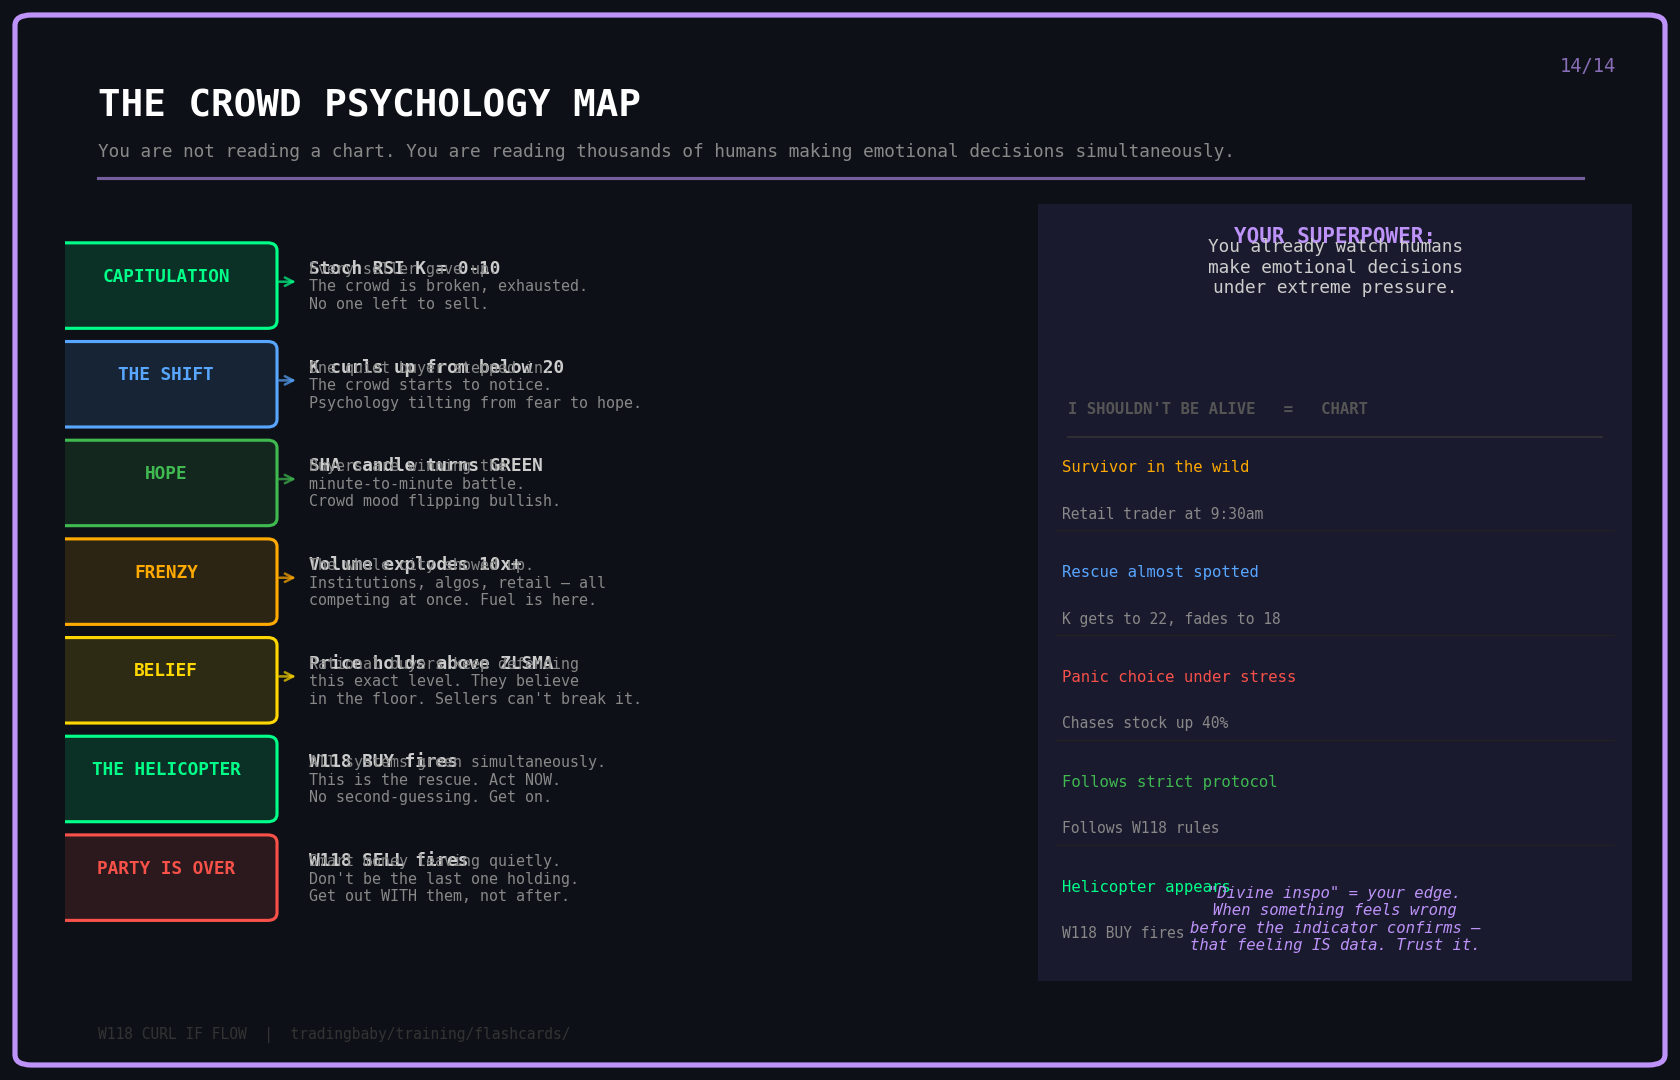
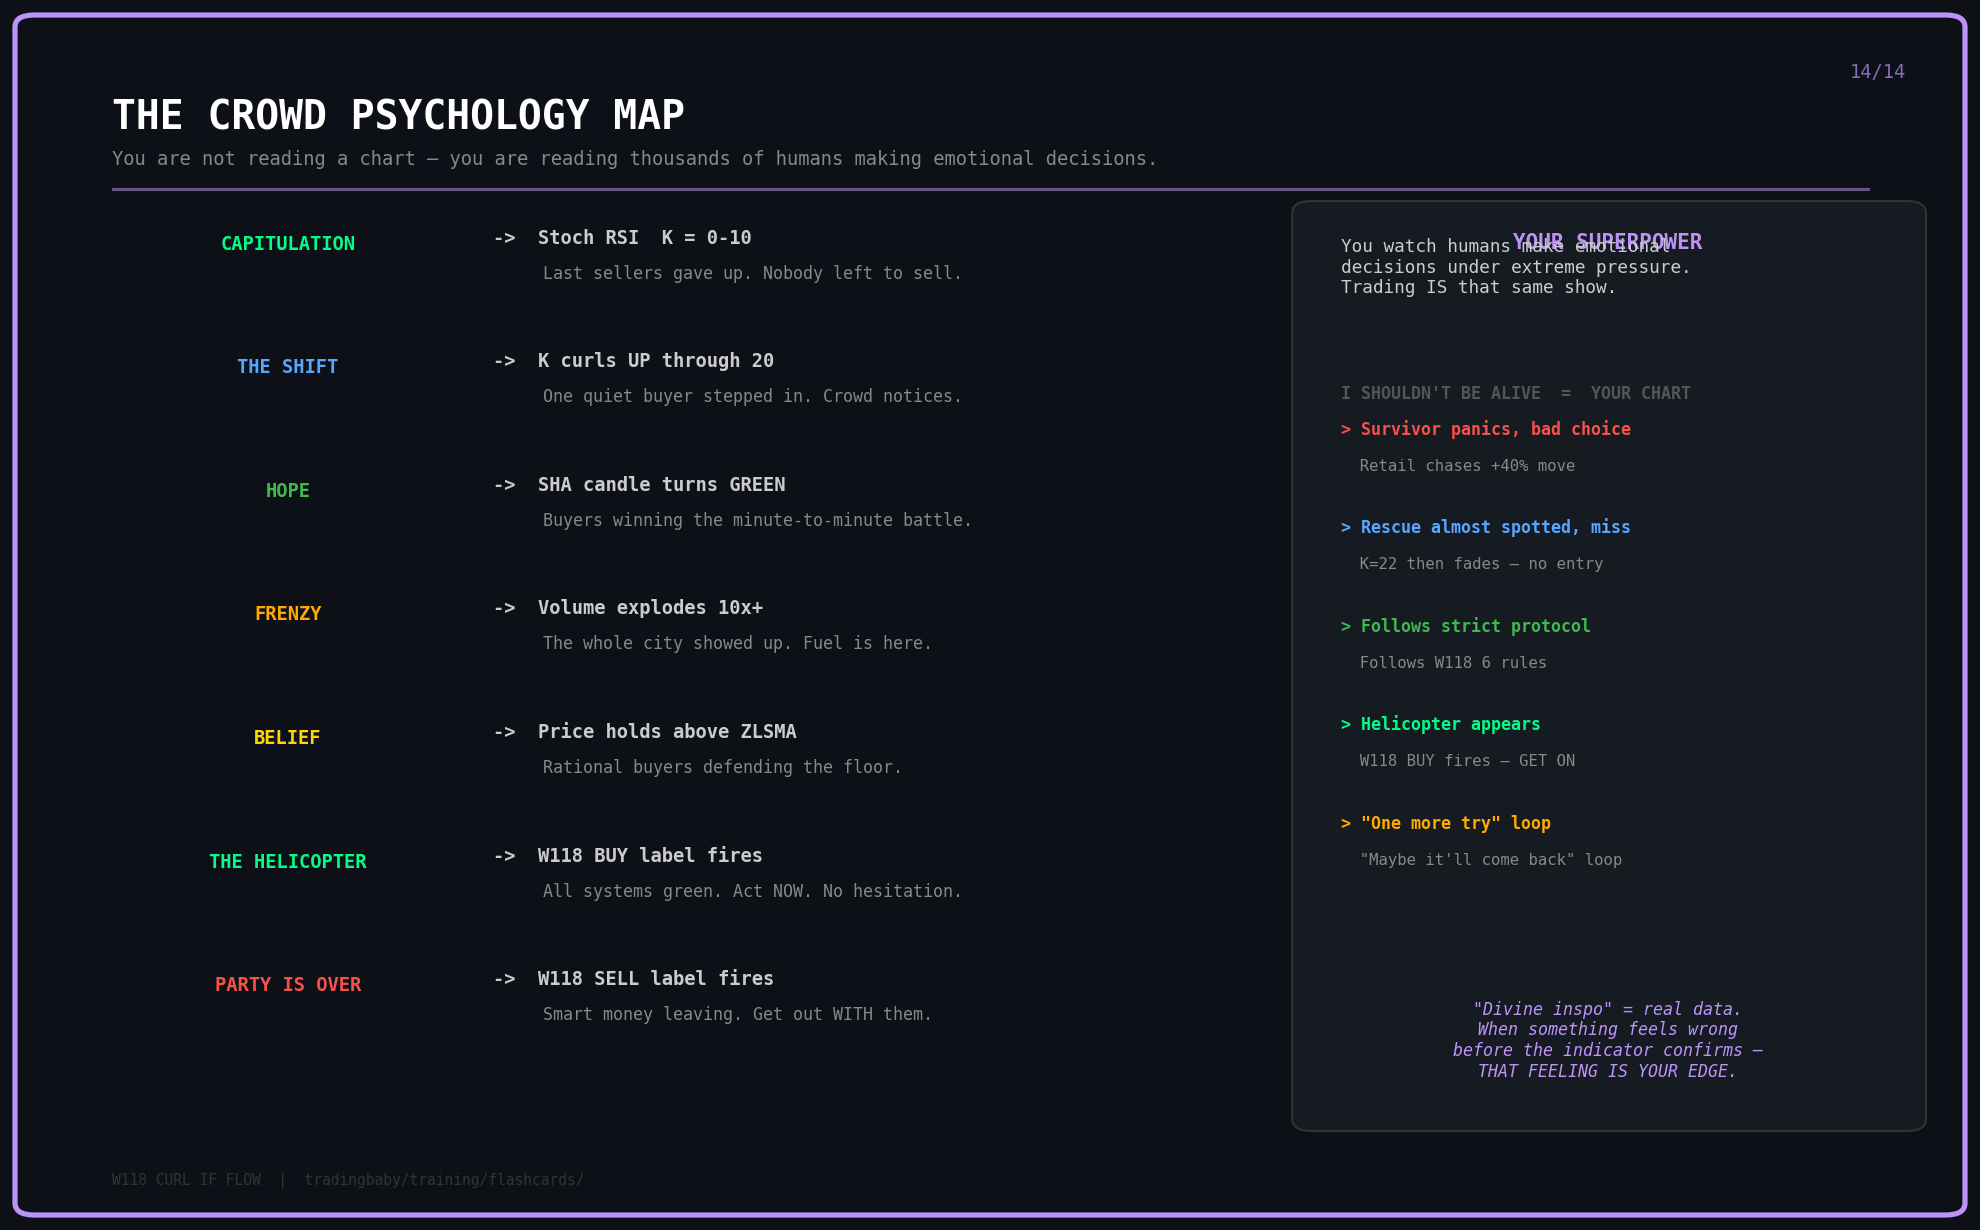
Fix Card 14 layout — clean spacing, no overlap

diff --git a/training/flashcards/make_card14.py b/training/flashcards/make_card14.py
@@ -1,141 +1,118 @@
 """
-Card 14 — The Crowd Psychology Map
-The chart translated into human emotion.
+Card 14 — The Crowd Psychology Map (v2 - clean layout)
 """
-
 import matplotlib.pyplot as plt
 import matplotlib.patches as mpatches
 from matplotlib.patches import FancyBboxPatch
-import numpy as np
-import os
+import numpy as np, os
 
 OUT = os.path.join(os.path.dirname(__file__), 'card_14_crowd_psychology.png')
 
-BG     = '#0d1117'
-CARD   = '#161b22'
-GREEN  = '#3fb950'
-RED    = '#f85149'
-YELLOW = '#FFD700'
-BLUE   = '#58a6ff'
-ORANGE = '#ffaa00'
-PURPLE = '#bd93f9'
-GRAY   = '#888888'
-LGRAY  = '#cccccc'
-WHITE  = '#ffffff'
-TEAL   = '#00ff88'
+BG=('#0d1117'); CARD=('#161b22'); GREEN=('#3fb950'); RED=('#f85149')
+YELLOW=('#FFD700'); BLUE=('#58a6ff'); ORANGE=('#ffaa00')
+PURPLE=('#bd93f9'); GRAY=('#888888'); LGRAY=('#cccccc')
+WHITE=('#ffffff'); TEAL=('#00ff88')
 
-fig = plt.figure(figsize=(11, 7), facecolor=BG)
+fig = plt.figure(figsize=(13, 8), facecolor=BG)
 
-# border
 fig.add_artist(mpatches.FancyBboxPatch(
-    (0.01, 0.01), 0.98, 0.98,
-    boxstyle='round,pad=0.01', linewidth=2.5,
-    edgecolor=PURPLE, facecolor='none',
+    (0.01,0.01),0.98,0.98, boxstyle='round,pad=0.01',
+    linewidth=2.5, edgecolor=PURPLE, facecolor='none',
     transform=fig.transFigure))
 
-# card number
-fig.text(0.97, 0.96, '14/14', ha='right', va='top', fontsize=9,
-         color=PURPLE, fontfamily='monospace', alpha=0.7)
+fig.text(0.97,0.96,'14/14',ha='right',va='top',fontsize=9,
+         color=PURPLE,fontfamily='monospace',alpha=0.7)
+fig.text(0.05,0.93,'THE CROWD PSYCHOLOGY MAP',ha='left',va='top',
+         fontsize=19,fontweight='bold',color=WHITE,fontfamily='monospace')
+fig.text(0.05,0.875,
+         'You are not reading a chart — you are reading thousands of humans making emotional decisions.',
+         ha='left',fontsize=9,color=GRAY,fontfamily='monospace')
 
-# title
-fig.text(0.05, 0.93, 'THE CROWD PSYCHOLOGY MAP', ha='left', va='top',
-         fontsize=18, fontweight='bold', color=WHITE, fontfamily='monospace')
-fig.text(0.05, 0.865, 'You are not reading a chart. You are reading thousands of humans making emotional decisions simultaneously.',
-         ha='left', fontsize=8.5, color=GRAY, fontfamily='monospace')
+fig.add_artist(plt.Line2D([0.05,0.95],[0.855,0.855],
+    transform=fig.transFigure, color=PURPLE,linewidth=1.5,alpha=0.5))
 
-line = plt.Line2D([0.05, 0.95], [0.845, 0.845],
-                  transform=fig.transFigure,
-                  color=PURPLE, linewidth=1.5, alpha=0.6)
-fig.add_artist(line)
-
-# ── left column: the emotion map ──────────────────────────────────────────────
-ax = fig.add_axes([0.03, 0.08, 0.56, 0.74], frameon=False)
-ax.axis('off')
-
+# ── LEFT: emotion ladder ───────────────────────────────────────────────────────
 states = [
-    # (indicator reading,         emotion word,    crowd story,                              color,  arrow)
-    ('Stoch RSI K = 0-10',       'CAPITULATION',  'Every seller gave up.\nThe crowd is broken, exhausted.\nNo one left to sell.',                   TEAL,   True),
-    ('K curls up from below 20', 'THE SHIFT',     'One quiet buyer stepped in.\nThe crowd starts to notice.\nPsychology tilting from fear to hope.', BLUE,   True),
-    ('SHA candle turns GREEN',   'HOPE',          'Buyers are winning the\nminute-to-minute battle.\nCrowd mood flipping bullish.',                  GREEN,  True),
-    ('Volume explodes 10x+',     'FRENZY',        'The whole city showed up.\nInstitutions, algos, retail — all\ncompeting at once. Fuel is here.',   ORANGE, True),
-    ('Price holds above ZLSMA',  'BELIEF',        'Rational buyers keep defending\nthis exact level. They believe\nin the floor. Sellers can\'t break it.',YELLOW, True),
-    ('W118 BUY fires',           'THE HELICOPTER','All systems green simultaneously.\nThis is the rescue. Act NOW.\nNo second-guessing. Get on.',      TEAL,   False),
-    ('W118 SELL fires',          'PARTY IS OVER', 'Smart money leaving quietly.\nDon\'t be the last one holding.\nGet out WITH them, not after.',      RED,    False),
+    ('Stoch RSI  K = 0-10',       'CAPITULATION',    'Last sellers gave up. Nobody left to sell.',     TEAL),
+    ('K curls UP through 20',     'THE SHIFT',       'One quiet buyer stepped in. Crowd notices.',     BLUE),
+    ('SHA candle turns GREEN',    'HOPE',            'Buyers winning the minute-to-minute battle.',    GREEN),
+    ('Volume explodes 10x+',      'FRENZY',          'The whole city showed up. Fuel is here.',        ORANGE),
+    ('Price holds above ZLSMA',   'BELIEF',          'Rational buyers defending the floor.',           YELLOW),
+    ('W118 BUY label fires',      'THE HELICOPTER',  'All systems green. Act NOW. No hesitation.',     TEAL),
+    ('W118 SELL label fires',     'PARTY IS OVER',   'Smart money leaving. Get out WITH them.',        RED),
 ]
 
-row_h = 0.127
-for i, (indicator, emotion, story, color, has_arrow) in enumerate(states):
-    y = 0.915 - i * row_h
+top = 0.80; row = 0.103
+for i,(indicator, emotion, story, color) in enumerate(states):
+    y = top - i*row
 
-    # emotion badge
-    ax.add_patch(FancyBboxPatch((0.0, y-0.065), 0.22, 0.09,
-        boxstyle='round,pad=0.01', facecolor=color+'22',
-        edgecolor=color, linewidth=1.5, transform=ax.transAxes))
-    ax.text(0.11, y-0.015, emotion, ha='center', fontsize=8.5,
-            color=color, fontweight='bold', fontfamily='monospace',
-            transform=ax.transAxes)
+    # colored pill
+    ax_pill = fig.add_axes([0.05, y-0.025, 0.18, 0.068], frameon=False)
+    ax_pill.set_facecolor(color+'22')
+    for sp in ax_pill.spines.values():
+        sp.set_color(color); sp.set_linewidth(1.5)
+    ax_pill.axis('off')
+    ax_pill.text(0.5,0.5, emotion, ha='center',va='center',
+                 fontsize=9, color=color, fontweight='bold',
+                 fontfamily='monospace', transform=ax_pill.transAxes)
 
-    # arrow between badge and indicator
-    if has_arrow:
-        ax.annotate('', xy=(0.255, y-0.015), xytext=(0.228, y-0.015),
-                    arrowprops=dict(arrowstyle='->', color=color,
-                                   lw=1.2, alpha=0.7),
-                    xycoords='axes fraction', textcoords='axes fraction')
+    # arrow + text to the right
+    fig.text(0.245, y+0.022, '->  ' + indicator,
+             fontsize=9, color=LGRAY, fontfamily='monospace',
+             fontweight='bold', va='top')
+    fig.text(0.245, y-0.008, '     ' + story,
+             fontsize=8, color=GRAY, fontfamily='monospace', va='top')
 
-    # indicator text
-    ax.text(0.265, y-0.005, indicator, fontsize=8.5, color=LGRAY,
-            fontfamily='monospace', fontweight='bold', transform=ax.transAxes)
-    ax.text(0.265, y-0.050, story, fontsize=7.2, color='#888888',
-            fontfamily='monospace', transform=ax.transAxes)
+# ── RIGHT: survival show parallel ─────────────────────────────────────────────
+rx = 0.665
+fig.add_artist(mpatches.FancyBboxPatch(
+    (rx,0.08),0.305,0.755, boxstyle='round,pad=0.01',
+    linewidth=1, edgecolor='#333333', facecolor='#161b22',
+    transform=fig.transFigure))
 
-# ── right column: the survival show parallel ──────────────────────────────────
-ax2 = fig.add_axes([0.62, 0.08, 0.36, 0.74], frameon=False)
-ax2.axis('off')
+fig.text(rx+0.152, 0.805, 'YOUR SUPERPOWER', ha='center',
+         fontsize=10, color=PURPLE, fontweight='bold',
+         fontfamily='monospace')
 
-ax2.add_patch(FancyBboxPatch((0.0, 0.0), 1.0, 1.0,
-    boxstyle='round,pad=0.01', facecolor='#1a1a2e',
-    edgecolor='#333333', linewidth=1, transform=ax2.transAxes))
+fig.text(rx+0.015, 0.768,
+         'You watch humans make emotional\n'
+         'decisions under extreme pressure.\n'
+         'Trading IS that same show.',
+         fontsize=8.5, color=LGRAY, fontfamily='monospace')
 
-ax2.text(0.5, 0.95, 'YOUR SUPERPOWER:', ha='center', fontsize=10,
-         color=PURPLE, fontweight='bold', fontfamily='monospace',
-         transform=ax2.transAxes)
-ax2.text(0.5, 0.885, 'You already watch humans\nmake emotional decisions\nunder extreme pressure.',
-         ha='center', fontsize=8.5, color=LGRAY, fontfamily='monospace',
-         transform=ax2.transAxes)
+fig.text(rx+0.015, 0.680,
+         'I SHOULDN\'T BE ALIVE  =  YOUR CHART',
+         fontsize=8, color='#555555', fontweight='bold',
+         fontfamily='monospace')
 
 parallels = [
-    ('Survivor in the wild',  'Retail trader at 9:30am',   ORANGE),
-    ('Rescue almost spotted', 'K gets to 22, fades to 18', BLUE),
-    ('Panic choice under stress','Chases stock up 40%',    RED),
-    ('Follows strict protocol', 'Follows W118 rules',      GREEN),
-    ('Helicopter appears',    'W118 BUY fires',            TEAL),
+    ('Survivor panics, bad choice',  'Retail chases +40% move',      RED),
+    ('Rescue almost spotted, miss',  'K=22 then fades — no entry',   BLUE),
+    ('Follows strict protocol',      'Follows W118 6 rules',         GREEN),
+    ('Helicopter appears',           'W118 BUY fires — GET ON',      TEAL),
+    ('"One more try" loop',          '"Maybe it\'ll come back" loop', ORANGE),
 ]
 
-ax2.text(0.05, 0.73, 'I SHOULDN\'T BE ALIVE   =   CHART',
-         fontsize=7.5, color='#555555', fontfamily='monospace',
-         fontweight='bold', transform=ax2.transAxes)
-ax2.axhline(y=0.70, color='#333333', linewidth=0.8,
-            xmin=0.05, xmax=0.95)
+py = 0.650
+for show, trade, color in parallels:
+    fig.text(rx+0.015, py,      '> ' + show,  fontsize=8,   color=color,
+             fontfamily='monospace', fontweight='bold')
+    fig.text(rx+0.015, py-0.030,'  ' + trade, fontsize=7.5, color=GRAY,
+             fontfamily='monospace')
+    py -= 0.082
 
-for i, (show, trade, color) in enumerate(parallels):
-    y = 0.655 - i * 0.135
-    ax2.text(0.04, y,      show,  fontsize=7.5, color=color,
-             fontfamily='monospace', transform=ax2.transAxes)
-    ax2.text(0.04, y-0.06, trade, fontsize=7,   color=GRAY,
-             fontfamily='monospace', transform=ax2.transAxes)
-    if i < len(parallels)-1:
-        ax2.axhline(y=y-0.075, color='#222222', linewidth=0.5,
-                    xmin=0.03, xmax=0.97)
+fig.text(rx+0.152, 0.115,
+         '"Divine inspo" = real data.\n'
+         'When something feels wrong\n'
+         'before the indicator confirms —\n'
+         'THAT FEELING IS YOUR EDGE.',
+         ha='center', fontsize=8, color=PURPLE,
+         fontfamily='monospace', style='italic')
 
-ax2.text(0.5, 0.04,
-         '"Divine inspo" = your edge.\nWhen something feels wrong\nbefore the indicator confirms —\nthat feeling IS data. Trust it.',
-         ha='center', fontsize=7.5, color=PURPLE, fontfamily='monospace',
-         style='italic', transform=ax2.transAxes)
+fig.text(0.05,0.025,
+         'W118 CURL IF FLOW  |  tradingbaby/training/flashcards/',
+         ha='left',fontsize=7,color='#333333',fontfamily='monospace')
 
-# footer
-fig.text(0.05, 0.025, 'W118 CURL IF FLOW  |  tradingbaby/training/flashcards/',
-         ha='left', fontsize=7, color='#333333', fontfamily='monospace')
-
-plt.savefig(OUT, dpi=150, bbox_inches='tight', facecolor=BG)
+plt.savefig(OUT,dpi=150,bbox_inches='tight',facecolor=BG)
 print(f'Saved: {OUT}')
 plt.close()